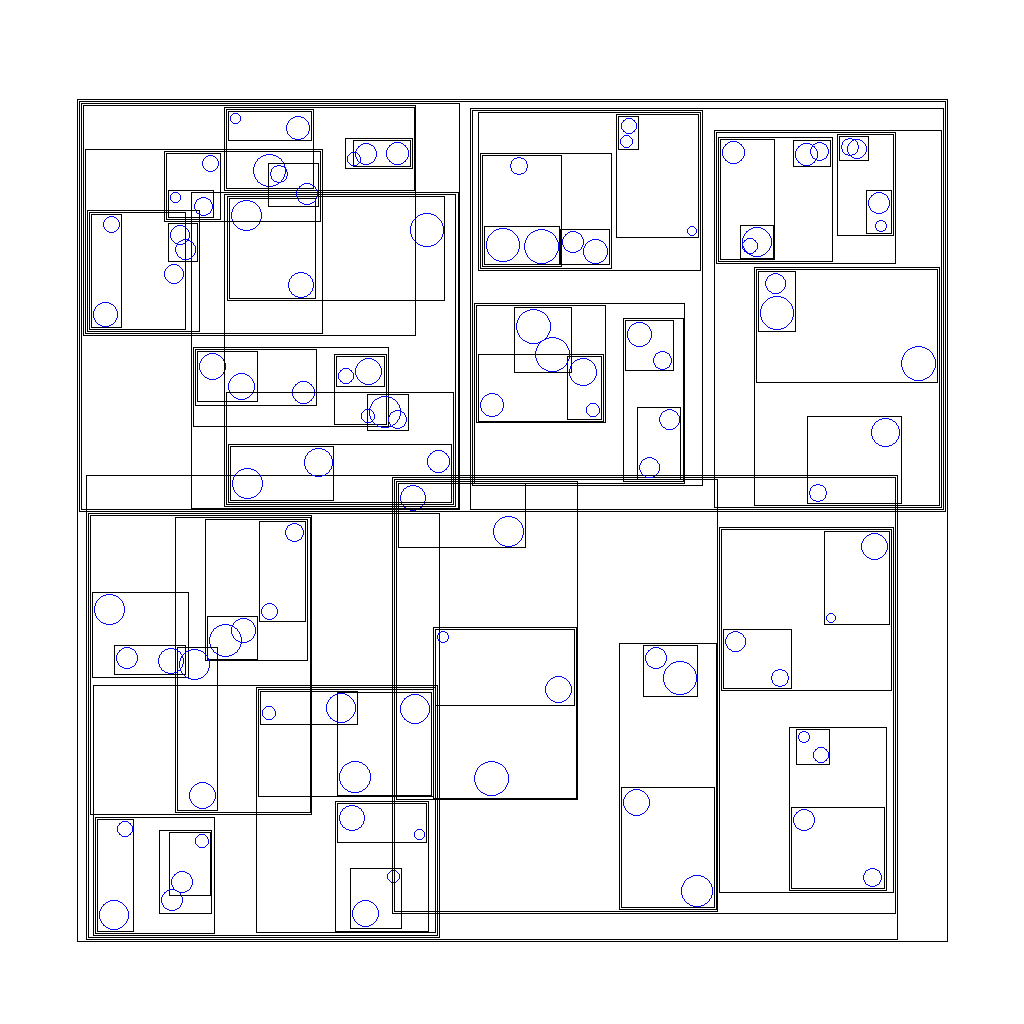
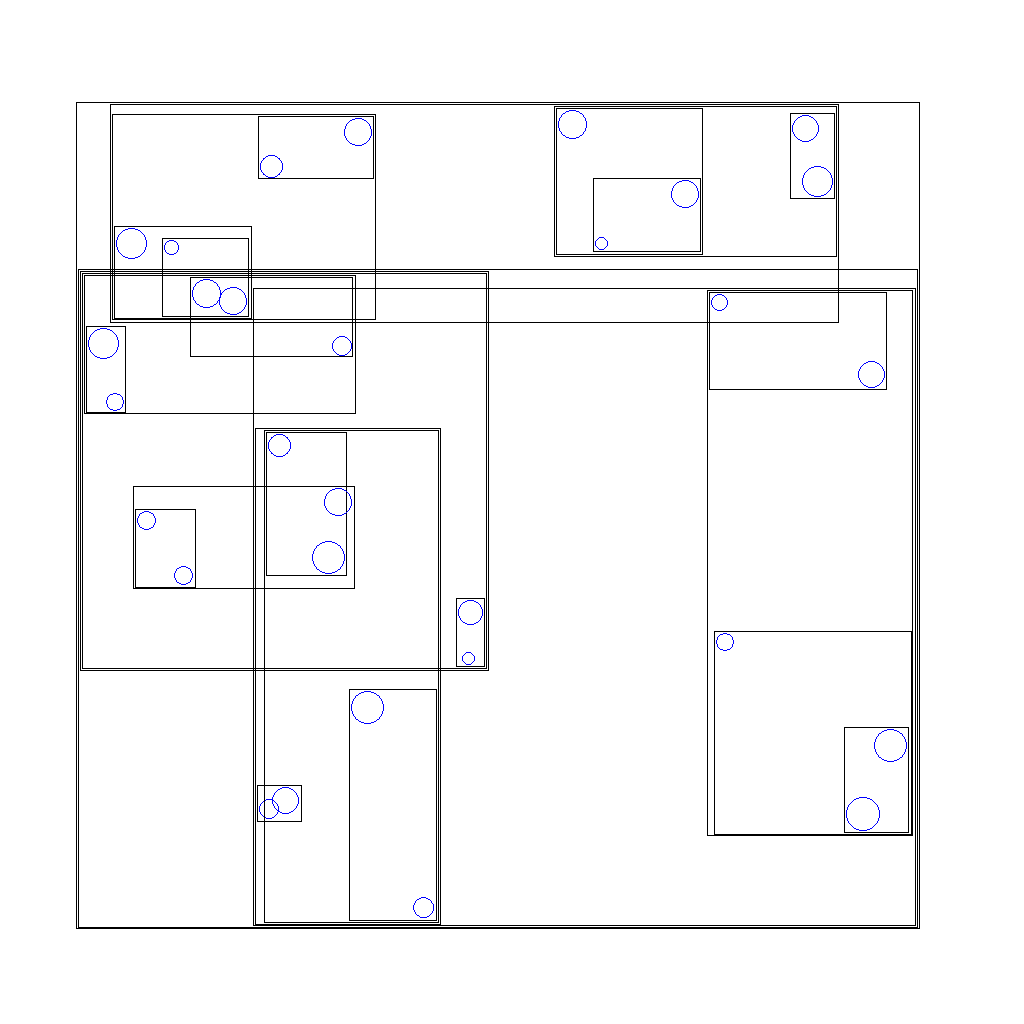
improve optimize() priority

diff --git a/src/AABB.cs b/src/AABB.cs
@@ -1334,33 +1334,49 @@ namespace aabb
 			int n3 = nodes[right].left;
 			int n4 = nodes[right].right;
 
-			AABB u12 = AABB.Union(nodes[n1].aabb, nodes[n2].aabb);
-			AABB u13 = AABB.Union(nodes[n1].aabb, nodes[n3].aabb);
-			AABB u14 = AABB.Union(nodes[n1].aabb, nodes[n4].aabb);
-			AABB u23 = AABB.Union(nodes[n2].aabb, nodes[n3].aabb);
-			AABB u24 = AABB.Union(nodes[n2].aabb, nodes[n4].aabb);
-			AABB u34 = AABB.Union(nodes[n3].aabb, nodes[n4].aabb);
+			AABB u12 = AABB.Union(nodes[n1].aabb, nodes[n2].aabb); double a12 = u12.Area();
+			AABB u13 = AABB.Union(nodes[n1].aabb, nodes[n3].aabb); double a13 = u13.Area();
+			AABB u14 = AABB.Union(nodes[n1].aabb, nodes[n4].aabb); double a14 = u14.Area();
+			AABB u23 = AABB.Union(nodes[n2].aabb, nodes[n3].aabb); double a23 = u23.Area();
+			AABB u24 = AABB.Union(nodes[n2].aabb, nodes[n4].aabb); double a24 = u24.Area();
+			AABB u34 = AABB.Union(nodes[n3].aabb, nodes[n4].aabb); double a34 = u34.Area();
 
-			double a1234 = u12.Area() + u34.Area();
-			double a1324 = u13.Area() + u24.Area();
-			double a1423 = u14.Area() + u23.Area();
 			double x1234 = AABB.Intersect(u12, u34).Area();
 			double x1324 = AABB.Intersect(u13, u24).Area();
 			double x1423 = AABB.Intersect(u14, u23).Area();
-			// double r1234 = Math.Max(a12, a34) / Math.Min(a12, a34);
-			// double r1324 = Math.Max(a13, a24) / Math.Min(a13, a24);
-			// double r1423 = Math.Max(a14, a23) / Math.Min(a14, a23);
+			double xMin = Math.Min(Math.Min(x1234, x1324), x1423);
+			bool b1234 = (xMin == x1234);
+			bool b1324 = (xMin == x1324);
+			bool b1423 = (xMin == x1423);
 
-			if (x1234 == 0) {
-				// ...
-			} else if (x1324 == 0) {
-				swap(n2, n3);
-			} else if (x1423 == 0) {
-				swap(n2, n4);
-			} else {
+			if (Convert.ToInt32(b1234) + Convert.ToInt32(b1324) + Convert.ToInt32(b1423) > 1)
+			{
+				double a1234 = b1234? u12.Area() + u34.Area(): double.MaxValue;
+				double a1324 = b1324? u13.Area() + u24.Area(): double.MaxValue;
+				double a1423 = b1423? u14.Area() + u23.Area(): double.MaxValue;
 				double aMin = Math.Min(Math.Min(a1234, a1324), a1423);
-				if (aMin == a1324) swap(n2, n3);
-				if (aMin == a1423) swap(n2, n4);
+				b1234 = (aMin == a1234);
+				b1324 = (aMin == a1324);
+				b1423 = (aMin == a1423);
+
+				if (Convert.ToInt32(b1234) + Convert.ToInt32(b1324) + Convert.ToInt32(b1423) > 1)
+				{
+					double r1234 = b1234? Math.Max(a12, a34) / Math.Min(a12, a34): double.MaxValue;
+					double r1324 = b1324? Math.Max(a13, a24) / Math.Min(a13, a24): double.MaxValue;
+					double r1423 = b1423? Math.Max(a14, a23) / Math.Min(a14, a23): double.MaxValue;
+					double rMin = Math.Min(Math.Min(r1234, r1324), r1423);
+					b1234 = (rMin == r1234);
+					b1324 = (rMin == r1324);
+					b1423 = (rMin == r1423);
+				} 
+			}
+			
+			if (b1234) {
+				// pass
+			} else if (b1324) {
+				swap(n2, n3);
+			} else if (b1423) {
+				swap(n2, n4);
 			}
 			
 			update(left);
@@ -1883,7 +1899,7 @@ namespace aabb
             List<double> boxSize = new List<double>() {baseLength, baseLength};
 
             // Initialise the random number generator.
-            Random random = new Random(-1);
+            Random random = new Random();
 
             // Initialise the AABB trees.
             aabb.Tree treeSmall = new aabb.Tree(2, maxDisp, periodicity, boxSize, nSmall);
